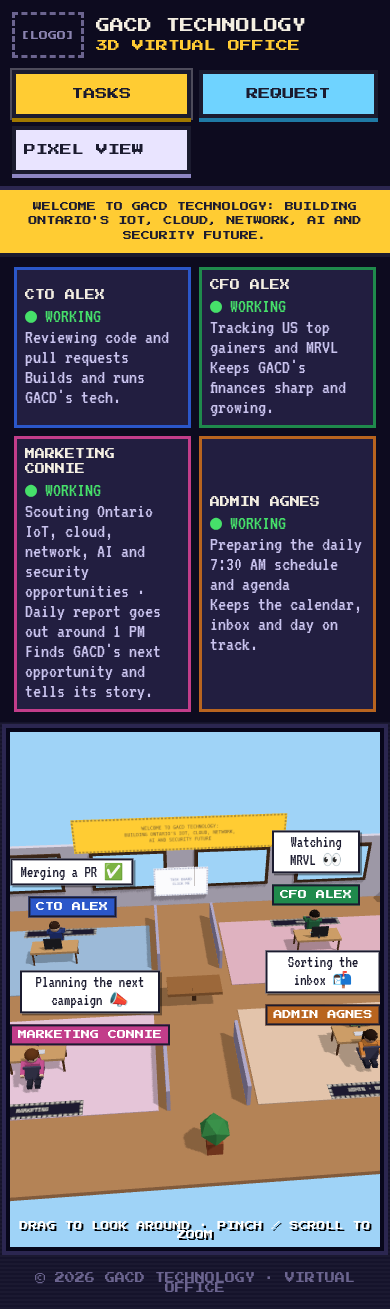
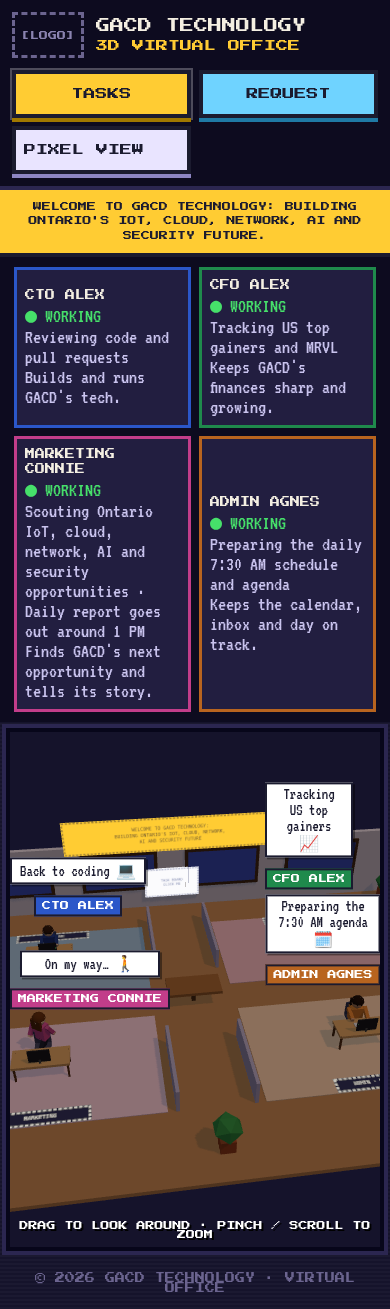
3D office: frequent walking on path graph, walk cycle, meetings, desk visits, collision yielding, workers face camera

diff --git a/office3d.js b/office3d.js
@@ -50,45 +50,95 @@ B(2.6,1,1,0x8f6a49,12.2,.5,-1);const cm=B(.5,.7,.5,0x8a2f2f,11.8,1.35,-1);B(.3,.
 const mail=B(.7,.6,.5,0x3b6fb6,11.5,1.3,6.5);B(1.4,.9,.8,0x9c6a3f,11.5,.45,6.5);mail.userData.open='contact';
 // plants
 for(const[x,z]of[[-13,-9],[13,-9],[-13,9],[0,8.5]]){B(.6,.6,.6,0xa8532f,x,.3,z);const l=new THREE.Mesh(new THREE.IcosahedronGeometry(.6,0),M(0x3f9b4f));l.position.set(x,1.1,z);l.castShadow=true;scene.add(l)}
-/* ---------- desks ---------- */
+/* ---------- desks (everyone faces the starting camera; monitors face the worker) ---------- */
 const screens={};
-function desk(t){const[x,z]=t.desk,s=t.face===0?1:-1,g=new THREE.Group();g.position.set(x,0,z);scene.add(g);
+function desk(t){const[x,z]=t.desk,g=new THREE.Group();g.position.set(x,0,z);scene.add(g);
  B(2.4,.12,1.1,0xdba96f,0,.8,0,g);for(const dx of[-1.1,1.1])for(const dz of[-.45,.45])B(.08,.8,.08,0x6b4429,dx,.4,dz,g);
- B(.9,.6,.06,0x2a2a2e,0,1.25,-.35*s,g).rotation.y=t.face;const sc=new THREE.MeshBasicMaterial({color:0x43d36a});screens[t.id]=sc;const p=B(.8,.5,.02,sc,0,1.25,-.31*s,g);p.rotation.y=t.face;
- B(.08,.25,.08,0x555555,0,.95,-.35*s,g);B(.7,.03,.25,0xe5e5ee,0,.88,.1*s,g);
- B(.7,.08,.7,0x4a4a66,0,.5,.95*s,g);B(.7,.7,.08,0x4a4a66,0,.85,1.3*s,g);
- for(let i=0;i<3;i++)B(.18,.04,.18,0x3d3d55,0,.04,.95*s,g).rotation.y=i;}
+ B(.9,.6,.06,0x2a2a2e,0,1.25,.35,g);const sc=new THREE.MeshBasicMaterial({color:0x43d36a});screens[t.id]=sc;const p=B(.8,.5,.02,sc,0,1.25,.31,g);p.rotation.y=Math.PI;
+ B(.08,.25,.08,0x555555,0,.95,.35,g);B(.7,.03,.25,0xe5e5ee,0,.88,-.1,g);
+ B(.7,.08,.7,0x4a4a66,0,.5,-.95,g);B(.7,.7,.08,0x4a4a66,0,.85,-1.3,g);B(.18,.04,.18,0x3d3d55,0,.04,-.95,g)}
 TEAM.forEach(desk);
 /* ---------- characters ---------- */
-function person(t){const g=new THREE.Group(),sh=M(t.shirt),sk=M(t.skin);
- const body=B(.6,.75,.38,sh,0,1.15,0,g);const head=new THREE.Mesh(new THREE.SphereGeometry(.27,12,10),sk);head.position.y=1.78;head.castShadow=true;g.add(head);
- const hair=new THREE.Mesh(new THREE.SphereGeometry(.29,12,8,0,Math.PI*2,0,Math.PI/2),M(t.hair));hair.position.y=1.82;g.add(hair);
- if(t.long)B(.5,.5,.12,t.hair,0,1.62,-.2,g);
- if(t.id==='cto'){B(.36,.07,.02,0x222222,0,1.8,.26,g)}
- for(const ex of[-.1,.1])B(.05,.05,.02,0x1a1a1a,ex,1.8,.26,g);
- const arms=[],legs=[];for(const s of[-1,1]){const a=new THREE.Group();a.position.set(.38*s,1.48,0);B(.16,.6,.16,sh,0,-.3,0,a);B(.15,.12,.15,sk,0,-.62,0,a);g.add(a);arms.push(a);
-  const l=new THREE.Group();l.position.set(.16*s,.78,0);B(.2,.75,.22,0x2a2a3a,0,-.38,0,l);g.add(l);legs.push(l)}
- scene.add(g);return{g,arms,legs,head}}
-const AG=TEAM.map((t,i)=>{const p=person(t),s=t.face===0?1:-1,seat=new THREE.Vector3(t.desk[0],0,t.desk[1]+.95*s);
- return{...t,...p,seat,st:'sit',wait:RM?1e9:6+i*4+Math.random()*6,path:[],msg:t.lines[0],mt:0,li:0}});
-const SPOTS=[['coffee',new THREE.Vector3(11.8,0,0),'Grabbing coffee ☕'],['meet',new THREE.Vector3(0,0,.6),'Quick sync at the table 🤝'],['board',new THREE.Vector3(0,0,-8.6),'Updating the task board 📋'],['mail',new THREE.Vector3(10.6,0,6.5),'Checking the mail ✉']];
-const aisle=a=>new THREE.Vector3(a.desk[0]*.4,0,a.desk[1]<0?-1.6:1.6);
-function seat(a){a.st='sit';a.g.position.copy(a.seat);a.g.position.y=-.32;a.g.rotation.y=a.face;for(const l of a.legs)l.rotation.x=-Math.PI/2}
+function person(t){const g=new THREE.Group(),body=new THREE.Group(),sh=M(t.shirt),sk=M(t.skin);g.add(body);
+ B(.6,.75,.38,sh,0,1.15,0,body);const head=new THREE.Mesh(new THREE.SphereGeometry(.27,12,10),sk);head.position.y=1.78;head.castShadow=true;body.add(head);
+ const hair=new THREE.Mesh(new THREE.SphereGeometry(.29,12,8,0,Math.PI*2,0,Math.PI/2),M(t.hair));hair.position.y=1.82;body.add(hair);
+ if(t.long)B(.5,.5,.12,t.hair,0,1.62,-.2,body);if(t.id==='cto')B(.36,.07,.02,0x222222,0,1.8,.26,body);
+ for(const ex of[-.1,.1])B(.05,.05,.02,0x1a1a1a,ex,1.8,.26,body);
+ const arms=[],legs=[];for(const s of[-1,1]){const a=new THREE.Group();a.position.set(.38*s,1.48,0);B(.16,.6,.16,sh,0,-.3,0,a);B(.15,.12,.15,sk,0,-.62,0,a);body.add(a);arms.push(a);
+  const l=new THREE.Group();l.position.set(.16*s,.78,0);B(.2,.75,.22,0x2a2a3a,0,-.38,0,l);body.add(l);legs.push(l)}
+ scene.add(g);return{g,body,arms,legs,head}}
+/* path graph: front aisle F (z=1.4), back aisle B (z=-8.6), connectors at x=-12.5,-3,3,10 */
+const N={},E={};const node=(k,x,z)=>{N[k]=new THREE.Vector3(x,0,z);E[k]=E[k]||[]};const edge=(a,b)=>{E[a].push(b);E[b].push(a)};
+const FX=[-12.5,-7,-3,0,3,7,10],BX=[-12.5,-9,-7,-3,0,3,7,9,10];
+FX.forEach(x=>node('F'+x,x,1.4));BX.forEach(x=>node('B'+x,x,-8.6));
+for(let i=1;i<FX.length;i++)edge('F'+FX[i-1],'F'+FX[i]);for(let i=1;i<BX.length;i++)edge('B'+BX[i-1],'B'+BX[i]);
+for(const x of[-12.5,-3,3,10])edge('F'+x,'B'+x);
+function gpath(a,b){const d={[a]:0},prev={},q=[a];while(q.length){q.sort((x,y)=>d[x]-d[y]);const u=q.shift();if(u===b)break;for(const v of E[u]){const nd=d[u]+N[u].distanceTo(N[v]);if(d[v]===undefined||nd<d[v]){d[v]=nd;prev[v]=u;q.push(v)}}}
+ const p=[];let u=b;while(u!==undefined){p.unshift(u);u=prev[u]}return p}
+const P=(x,z)=>new THREE.Vector3(x,0,z),PI=Math.PI;
+const SPOTS={
+ coffee:{pos:P(10.9,0),entry:'F10',face:PI/2,say:'Grabbing a coffee ☕'},
+ meetL:{pos:P(-1.95,-.5),entry:'F-3',face:PI/2,say:'Quick sync 🤝',meet:1},
+ meetR:{pos:P(1.95,-.5),entry:'F3',face:-PI/2,say:'Quick sync 🤝',meet:1},
+ board:{pos:P(0,-8.4),entry:'B0',face:PI,say:'Updating the task board 📋'},
+ mail:{pos:P(11.5,5.6),entry:'F10',via:[P(10,5.6)],face:0,say:'Checking the mail ✉'},
+ winL:{pos:P(-9,-8.7),entry:'B-9',face:PI,say:'Nice view of Ontario 🌆'},
+ winR:{pos:P(9,-8.7),entry:'B9',face:PI,say:'Sunny out there ☀'},
+ plantA:{pos:P(-12.5,-8.1),entry:'B-12.5',face:PI,say:'Watering the plants 🪴'},
+ plantB:{pos:P(0,7.5),entry:'F0',face:0,say:'Watering the plants 🪴'},
+ plantC:{pos:P(-12.5,8.1),entry:'F-12.5',via:[P(-12.5,5)],face:0,say:'This plant needs water 🪴'}};
+const VISIT={cto:'Got a minute for a tech question? 💻',cfo:'Quick budget check? 💰',mkt:'Can you share this post? 📣',adm:'Can I book you for a meeting? 📅'};
+const CHATS=[['Got a sec? 👋','Sure, what\'s up?'],['How\'s the project going?','On track! 🚀'],['Coffee after this? ☕','Definitely!']];
+const AG=TEAM.map((t,i)=>{const p=person(t),[dx,dz]=t.desk,front=dz>0;
+ const seat=P(dx,dz-.95),entry=(front?'F':'B')+dx,via=front?[]:[P(dx,-7)];
+ return{...t,...p,i,seat,home:{pos:seat,entry,via,face:0},st:"sit",sitT:5+i,path:[],msg:t.lines[0],mt:0,li:0,yaw:0,ph:0,side:0,spot:null,node:entry,stay:0}});
+// visiting spots next to each desk
+for(const a of AG){const front=a.desk[1]>0;SPOTS['v_'+a.id]={pos:P(a.desk[0]+(a.desk[0]<0?1.6:-1.6),a.seat.z+(front?-.2:0)),entry:a.home.entry,via:a.home.via,face:a.desk[0]<0?-PI/2:PI/2,say:VISIT[a.id],visit:a.id}}
+function seat(a){a.st='sit';a.sitT=0;a.g.position.copy(a.seat);a.yaw=0;a.g.rotation.y=0;a.body.position.set(0,-.32,0);a.side=0;for(const l of a.legs)l.rotation.x=-PI/2;a.spot=null;a.node=a.home.entry}
 AG.forEach(seat);
-function goSomewhere(a){const used=AG.filter(o=>o!==a&&o.spot).map(o=>o.spot);const opts=SPOTS.filter(s=>!used.includes(s[0]));const s=opts[Math.random()*opts.length|0];a.spot=s[0];a.path=[aisle(a),s[1].clone()];a.after=s[2];a.st='walk';a.g.position.y=0;for(const l of a.legs)l.rotation.x=0}
-function goHome(a){a.spot=null;a.path=[aisle(a),a.seat.clone()];a.after=null;a.st='walkhome'}
 function say(a,m){a.msg=m;a.mt=0}
-let clk=0;
-function tick(dt){clk+=dt;for(const a of AG){a.mt+=dt;
- if(a.st==='sit'){const tp=RM?0:Math.sin(clk*14+a.desk[0])*.12;a.arms[0].rotation.x=-1.2+tp;a.arms[1].rotation.x=-1.2-tp;a.head.rotation.y=RM?0:Math.sin(clk*.7+a.desk[1])*.15;
-  if(a.mt>5.5&&!RM){a.li=(a.li+1)%a.lines.length;say(a,a.lines[a.li])}
-  a.wait-=dt;if(a.wait<=0)goSomewhere(a)}
- else if(a.st==='walk'||a.st==='walkhome'){const tgt=a.path[0],p=a.g.position,d=tgt.clone().sub(p);d.y=0;const L=d.length(),step=2.2*dt;
-  a.g.rotation.y=Math.atan2(d.x,d.z);const sw=Math.sin(clk*9)*.6;a.legs[0].rotation.x=sw;a.legs[1].rotation.x=-sw;a.arms[0].rotation.x=-sw*.7;a.arms[1].rotation.x=sw*.7;
-  if(L<=step){p.copy(tgt);a.path.shift();if(!a.path.length){if(a.st==='walk'){a.st='stand';a.wait=4+Math.random()*3;say(a,a.after);for(const l of a.legs)l.rotation.x=0;a.arms.forEach(x=>x.rotation.x=0)}else{seat(a);a.wait=12+Math.random()*14;say(a,'Back to work: '+a.status.toLowerCase())}}}
-  else p.addScaledVector(d.normalize(),step)}
- else if(a.st==='stand'){a.wait-=dt;if(a.wait<=0)goHome(a)}
- screens[a.id].color.setHex(a.st==='sit'?((clk*8|0)%9===0?0x2f9d4f:0x43d36a):0x1d3a28)}}
+function buildPath(a,spot){const pts=[];
+ // leave current spot back to its entry node
+ const cur=a.spot?SPOTS[a.spot]:a.home;[...(cur.via||[])].reverse().forEach(v=>pts.push(v.clone()));
+ for(const k of gpath(cur.entry,spot.entry))pts.push(N[k].clone());(spot.via||[]).forEach(v=>pts.push(v.clone()));pts.push(spot.pos.clone());return pts}
+function goTo(a,key){const s=key==='home'?a.home:SPOTS[key];a.path=buildPath(a,s);a.target=key;a.st='walk';a.body.position.y=0;for(const l of a.legs)l.rotation.x=0;
+ if(a.spot)a.spot=null;a.claim=key;if(key!=='home')say(a,'On my way… 🚶')}
+const busy=()=>AG.filter(a=>a.st!=='sit').length;
+function freeSpots(a){const taken=AG.filter(o=>o!==a).map(o=>o.claim);return Object.keys(SPOTS).filter(k=>!taken.includes(k)&&k!=='v_'+a.id&&!(SPOTS[k].visit&&AG.find(o=>o.id===SPOTS[k].visit).st!=='sit')&&!SPOTS[k].meet)}
+function dispatch(){const sitters=AG.filter(a=>a.st==='sit'&&a.sitT>5);if(!sitters.length)return;const a=sitters[Math.random()*sitters.length|0];
+ // sometimes start a meeting with a second sitter
+ const other=sitters.find(o=>o!==a);if(other&&busy()===0&&Math.random()<.35&&!AG.some(o=>o.claim==='meetL'||o.claim==='meetR')){goTo(a,'meetL');goTo(other,'meetR');meet={a,b:other,t:-1,i:0};return}
+ const f=freeSpots(a);goTo(a,f[Math.random()*f.length|0])}
+let meet=null,dispT=.4,clk=0;
+function angDiff(a,b){let d=b-a;while(d>PI)d-=2*PI;while(d<-PI)d+=2*PI;return d}
+function walk(a,dt){const p=a.g.position,tgt=a.path[0];const d=tgt.clone().sub(p);d.y=0;const L=d.length();
+ const dir=L>1e-4?d.clone().divideScalar(L):new THREE.Vector3(Math.sin(a.yaw),0,Math.cos(a.yaw));
+ // collision avoidance: yield to lower-index walkers ahead; step aside while waiting
+ let blocked=false;for(const o of AG){if(o===a||o.st==='sit')continue;const r=o.g.position.clone().sub(p);r.y=0;const dist=r.length();if(dist<1.1&&r.dot(dir)>.2*dist&&(o.st!=='walk'||o.i<a.i||o.waiting))blocked=!(o.waiting&&o.i>a.i&&o.st==='walk')}
+ a.waiting=blocked;a.side+=((blocked?.7:0)-a.side)*Math.min(1,dt*3);
+ const want=Math.atan2(dir.x,dir.z);a.yaw+=angDiff(a.yaw,want)*Math.min(1,dt*8);a.g.rotation.y=a.yaw;
+ a.body.position.x=-a.side;
+ if(!blocked){const step=2.0*dt;a.ph+=dt*9;if(L<=step){p.copy(tgt);a.path.shift()}else p.addScaledVector(dir,step)}else a.ph+=dt*2;
+ const sw=Math.sin(a.ph)*(blocked?.15:.65);a.legs[0].rotation.x=sw;a.legs[1].rotation.x=-sw;a.arms[0].rotation.x=-sw*.8;a.arms[1].rotation.x=sw*.8;a.body.position.y=Math.abs(Math.sin(a.ph))*.07;
+ if(!a.path.length)arrive(a)}
+function arrive(a){a.body.position.set(0,0,0);a.side=0;a.waiting=false;for(const l of a.legs)l.rotation.x=0;a.arms.forEach(x=>x.rotation.x=0);
+ if(a.target==='home'){seat(a);a.claim=null;say(a,a.lines[a.li=(a.li+1)%a.lines.length]);return}
+ const s=SPOTS[a.target];a.spot=a.target;a.st='stand';a.stay=s.meet?30:3.5+Math.random()*3;a.faceTo=s.face;say(a,s.say);
+ if(s.visit){const o=AG.find(x=>x.id===s.visit);if(o.st==='sit')setTimeout(()=>say(o,'Sure, happy to help! 👍'),1200)}}
+function tickMeet(dt){if(!meet)return;const{a,b}=meet;if(meet.t<0){if(a.st==='stand'&&b.st==='stand'){meet.t=0;meet.c=CHATS[Math.random()*CHATS.length|0]}return}
+ meet.t+=dt;const L=[[0,a,meet.c[0]],[2.2,b,meet.c[1]],[4.6,a,a.lines[0]],[7,b,b.lines[0]]];while(meet.i<L.length&&meet.t>=L[meet.i][0]){say(L[meet.i][1],L[meet.i][2]);meet.i++}
+ if(meet.t>9.5){a.stay=b.stay=.2+Math.random()*.5;meet=null}}
+function tick(dt){clk+=dt;if(RM){for(const a of AG){a.arms[0].rotation.x=a.arms[1].rotation.x=-1.2}return}
+ dispT-=dt;if(busy()===0)dispT=Math.min(dispT,.3);if(dispT<=0){if(busy()<2)dispatch();dispT=2+Math.random()*3}
+ tickMeet(dt);
+ for(const a of AG){a.mt+=dt;
+  if(a.st==='sit'){a.sitT+=dt;const tp=Math.sin(clk*14+a.desk[0])*.12;a.arms[0].rotation.x=-1.2+tp;a.arms[1].rotation.x=-1.2-tp;a.head.rotation.y=Math.sin(clk*.7+a.desk[1])*.15;
+   if(a.mt>5.5){a.li=(a.li+1)%a.lines.length;say(a,a.lines[a.li])}}
+  else if(a.st==='walk')walk(a,dt);
+  else if(a.st==='stand'){a.yaw+=angDiff(a.yaw,a.faceTo)*Math.min(1,dt*6);a.g.rotation.y=a.yaw;a.arms[0].rotation.x=Math.sin(clk*2+a.i)*.15;a.stay-=dt;
+   if(a.stay<=0){if(Math.random()<.3&&!SPOTS[a.spot].meet){const f=freeSpots(a);goTo(a,f[Math.random()*f.length|0])}else goTo(a,'home')}}
+  screens[a.id].color.setHex(a.st==='sit'?((clk*8|0)%9===0?0x2f9d4f:0x43d36a):0x1d3a28)}}
+window.__AG=AG;
 /* ---------- day / night ---------- */
 function light(){const h=hour(),d=h>=7&&h<=17?1:h>=5&&h<7?(h-5)/2:h>17&&h<=20.5?1-(h-17)/3.5:0;
  scene.background=new THREE.Color().lerpColors(new THREE.Color(0x15132b),new THREE.Color(0x9fd3f7),d);
